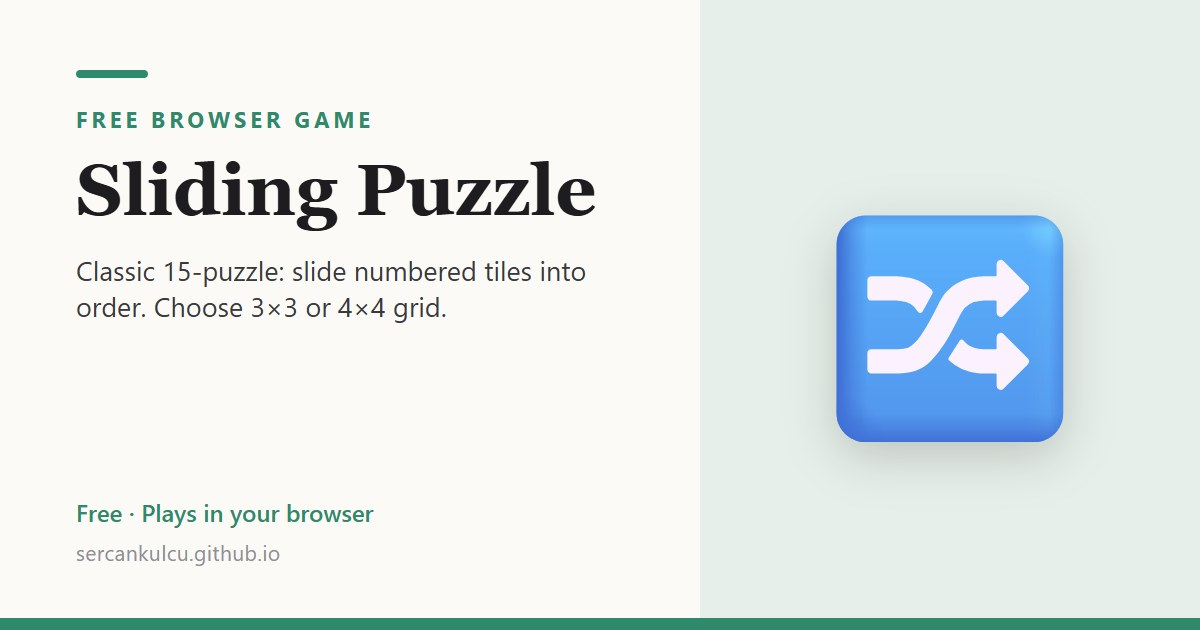
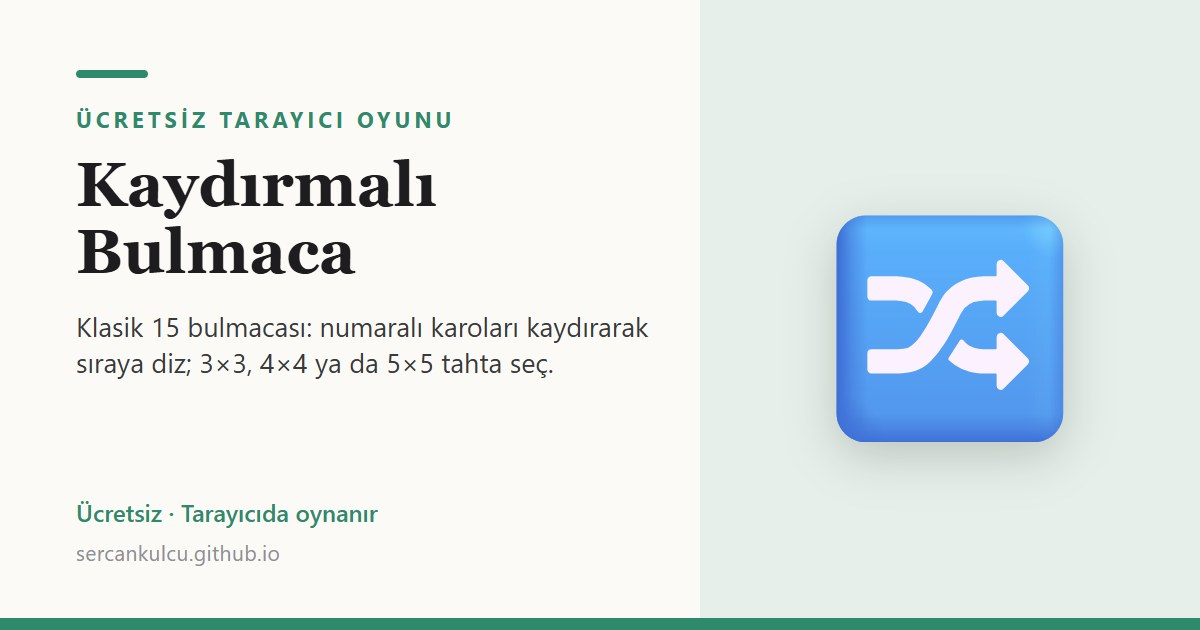
Sliding Puzzle becomes Kaydırmalı Bulmaca: Turkish interface, title and description

diff --git a/game/sliding-puzzle.html b/game/sliding-puzzle.html
@@ -1,10 +1,10 @@
 ---
 layout: without-sidebar
-title: "Sliding Puzzle"
+title: "Kaydırmalı Bulmaca"
 permalink: /game/sliding-puzzle/
-excerpt: "Classic 15-puzzle: slide numbered tiles into order. Choose 3×3 or 4×4 grid."
-lang: en
-seo_title: "Sliding Puzzle · Free Online Game"
+excerpt: "Klasik 15 bulmacası: numaralı karoları kaydırarak sıraya diz; 3×3, 4×4 ya da 5×5 tahta seç."
+lang: tr
+seo_title: "Kaydırmalı Bulmaca · 15 Bulmacası Oyna"
 og_image: https://sercankulcu.github.io/images/games/sliding-puzzle.jpg
 game_genre: "Puzzle"
 ---
@@ -89,16 +89,16 @@ game_genre: "Puzzle"
 
 <div class="sp-app">
   <div class="sp-header">
-    <h1 class="sp-title">Sliding Puzzle</h1>
+    <h1 class="sp-title">Kaydırmalı Bulmaca</h1>
   </div>
 
   <div class="sp-topbar">
-    <div class="sp-stat"><small>Moves</small><strong id="sp-moves">0</strong></div>
-    <div class="sp-stat"><small>Time</small><strong id="sp-time">0:00</strong></div>
-    <div class="sp-stat"><small>Best</small><strong id="sp-best">—</strong></div>
+    <div class="sp-stat"><small>Hamle</small><strong id="sp-moves">0</strong></div>
+    <div class="sp-stat"><small>Süre</small><strong id="sp-time">0:00</strong></div>
+    <div class="sp-stat"><small>Rekor</small><strong id="sp-best">—</strong></div>
   </div>
 
-  <div class="sp-size-tabs">
+  <div class="sp-size-tabs" role="group" aria-label="Tahta boyutu">
     <button class="sp-size-btn" type="button" data-n="3" aria-pressed="false">3 × 3</button>
     <button class="sp-size-btn active" type="button" data-n="4" aria-pressed="true">4 × 4</button>
     <button class="sp-size-btn" type="button" data-n="5" aria-pressed="false">5 × 5</button>
@@ -111,7 +111,7 @@ game_genre: "Puzzle"
   <div class="sp-controls">
     <button class="sp-btn primary" id="sp-new-btn" type="button">Yeni Oyun</button>
   </div>
-  <div class="sp-hint">Boş hücreye komşu karo'ya tıkla veya ok tuşlarını kullan</div>
+  <div class="sp-hint">Boş hücreye komşu bir karoya dokun ya da ok tuşlarını kullan</div>
 </div>
 
 <script>

diff --git a/tools/make_game_pages.py b/tools/make_game_pages.py
@@ -30,7 +30,7 @@ GROUPS = [
     ('🧠', 'Puzzle & logic', '#2f8a6b', 'Puzzle', [
         ('💣', 'minesweeper', 'en'), ('🔢', 'sudoku', 'en'), ('🧩', 'connections', 'en'),
         ('🧶', 'strands', 'tr'), ('🃏', 'memory', 'en'), ('🐂', 'bulls-and-cows', 'en'),
-        ('🔀', 'sliding-puzzle', 'en'), ('⚓', 'battleship', 'tr')]),
+        ('🔀', 'sliding-puzzle', 'tr'), ('⚓', 'battleship', 'tr')]),
     ('🔤', 'Word games', '#1f6fb2', 'Word game', [
         ('5⃣', 'fiveletters', 'tr'), ('6⃣', 'sixletters', 'tr'), ('🔤', 'oneword', 'tr'),
         ('🐝', 'spellbee', 'tr'), ('🎯', 'hangman', 'tr'), ('🔡', 'boggle', 'tr')]),
@@ -48,6 +48,7 @@ SEO = {
     'sixletters': 'Altı Harf · 6 Harfli Türkçe Wordle',
     'hangman': 'Adam Asmaca · Türkçe Kelime Tahmin Oyunu',
     'strands': 'Strands · Türkçe Temalı Kelime Avı',
+    'sliding-puzzle': 'Kaydırmalı Bulmaca · 15 Bulmacası Oyna',
     'oneword': 'Bir Kelime · Türkçe Kelime Türetme Oyunu',
     'spellbee': 'Spell Bee · Türkçe Kelime Oyunu',
     'boggle': 'Boggle · Türkçe Kelime Bulma Oyunu',

diff --git a/_pages/games.md b/_pages/games.md
@@ -5,7 +5,7 @@ title: "Games"
 seo_title: "Free Browser Games: Puzzles, Turkish Word Games and Quizzes"
 description: "31 free games that play right in your browser: arcade, puzzle and logic games, Turkish word games, quizzes and classics. No download, no sign-up."
 author_profile: true
-json_ld: "{\"@context\": \"https://schema.org\", \"@type\": \"ItemList\", \"name\": \"Free browser games\", \"numberOfItems\": 31, \"itemListElement\": [{\"@type\": \"ListItem\", \"position\": 1, \"url\": \"https://sercankulcu.github.io/game/car-race/\", \"name\": \"Retro Car Race\"}, {\"@type\": \"ListItem\", \"position\": 2, \"url\": \"https://sercankulcu.github.io/game/basketball/\", \"name\": \"Basketball\"}, {\"@type\": \"ListItem\", \"position\": 3, \"url\": \"https://sercankulcu.github.io/game/fastreflex/\", \"name\": \"Fast Reflex\"}, {\"@type\": \"ListItem\", \"position\": 4, \"url\": \"https://sercankulcu.github.io/game/squid/\", \"name\": \"Red Light, Green Light\"}, {\"@type\": \"ListItem\", \"position\": 5, \"url\": \"https://sercankulcu.github.io/game/pong/\", \"name\": \"Pong\"}, {\"@type\": \"ListItem\", \"position\": 6, \"url\": \"https://sercankulcu.github.io/game/flappy-bird/\", \"name\": \"Floppy Kuş\"}, {\"@type\": \"ListItem\", \"position\": 7, \"url\": \"https://sercankulcu.github.io/game/minesweeper/\", \"name\": \"Minesweeper\"}, {\"@type\": \"ListItem\", \"position\": 8, \"url\": \"https://sercankulcu.github.io/game/sudoku/\", \"name\": \"Sudoku\"}, {\"@type\": \"ListItem\", \"position\": 9, \"url\": \"https://sercankulcu.github.io/game/connections/\", \"name\": \"Connections\"}, {\"@type\": \"ListItem\", \"position\": 10, \"url\": \"https://sercankulcu.github.io/game/strands/\", \"name\": \"Strands\"}, {\"@type\": \"ListItem\", \"position\": 11, \"url\": \"https://sercankulcu.github.io/game/memory/\", \"name\": \"Memory Game\"}, {\"@type\": \"ListItem\", \"position\": 12, \"url\": \"https://sercankulcu.github.io/game/bulls-and-cows/\", \"name\": \"Bulls & Cows\"}, {\"@type\": \"ListItem\", \"position\": 13, \"url\": \"https://sercankulcu.github.io/game/sliding-puzzle/\", \"name\": \"Sliding Puzzle\"}, {\"@type\": \"ListItem\", \"position\": 14, \"url\": \"https://sercankulcu.github.io/game/battleship/\", \"name\": \"Amiral Battı\"}, {\"@type\": \"ListItem\", \"position\": 15, \"url\": \"https://sercankulcu.github.io/game/fiveletters/\", \"name\": \"Beş Harf\"}, {\"@type\": \"ListItem\", \"position\": 16, \"url\": \"https://sercankulcu.github.io/game/sixletters/\", \"name\": \"Altı Harf\"}, {\"@type\": \"ListItem\", \"position\": 17, \"url\": \"https://sercankulcu.github.io/game/oneword/\", \"name\": \"Bir Kelime\"}, {\"@type\": \"ListItem\", \"position\": 18, \"url\": \"https://sercankulcu.github.io/game/spellbee/\", \"name\": \"Spell Bee\"}, {\"@type\": \"ListItem\", \"position\": 19, \"url\": \"https://sercankulcu.github.io/game/hangman/\", \"name\": \"Adam Asmaca\"}, {\"@type\": \"ListItem\", \"position\": 20, \"url\": \"https://sercankulcu.github.io/game/boggle/\", \"name\": \"Boggle\"}, {\"@type\": \"ListItem\", \"position\": 21, \"url\": \"https://sercankulcu.github.io/game/flagquiz/\", \"name\": \"Flag Quiz\"}, {\"@type\": \"ListItem\", \"position\": 22, \"url\": \"https://sercankulcu.github.io/game/mathmaster/\", \"name\": \"Math Master\"}, {\"@type\": \"ListItem\", \"position\": 23, \"url\": \"https://sercankulcu.github.io/game/millionaire/\", \"name\": \"Milyoner\"}, {\"@type\": \"ListItem\", \"position\": 24, \"url\": \"https://sercankulcu.github.io/game/capital-city-quiz/\", \"name\": \"Capital City Quiz\"}, {\"@type\": \"ListItem\", \"position\": 25, \"url\": \"https://sercankulcu.github.io/game/movie-quiz/\", \"name\": \"Movie Quiz\"}, {\"@type\": \"ListItem\", \"position\": 26, \"url\": \"https://sercankulcu.github.io/game/pixar-color-millionaire/\", \"name\": \"Pixar Renk Milyoneri\"}, {\"@type\": \"ListItem\", \"position\": 27, \"url\": \"https://sercankulcu.github.io/game/emoji-quiz/\", \"name\": \"Emoji Quiz\"}, {\"@type\": \"ListItem\", \"position\": 28, \"url\": \"https://sercankulcu.github.io/game/turkiye-cografya-quiz/\", \"name\": \"Türkiye Coğrafya Quiz\"}, {\"@type\": \"ListItem\", \"position\": 29, \"url\": \"https://sercankulcu.github.io/game/yazitura/\", \"name\": \"Coin Flip\"}, {\"@type\": \"ListItem\", \"position\": 30, \"url\": \"https://sercankulcu.github.io/game/connectfour/\", \"name\": \"Connect Four\"}, {\"@type\": \"ListItem\", \"position\": 31, \"url\": \"https://sercankulcu.github.io/game/tictactoe/\", \"name\": \"Tic Tac Toe\"}]}"
+json_ld: "{\"@context\": \"https://schema.org\", \"@type\": \"ItemList\", \"name\": \"Free browser games\", \"numberOfItems\": 31, \"itemListElement\": [{\"@type\": \"ListItem\", \"position\": 1, \"url\": \"https://sercankulcu.github.io/game/car-race/\", \"name\": \"Retro Car Race\"}, {\"@type\": \"ListItem\", \"position\": 2, \"url\": \"https://sercankulcu.github.io/game/basketball/\", \"name\": \"Basketball\"}, {\"@type\": \"ListItem\", \"position\": 3, \"url\": \"https://sercankulcu.github.io/game/fastreflex/\", \"name\": \"Fast Reflex\"}, {\"@type\": \"ListItem\", \"position\": 4, \"url\": \"https://sercankulcu.github.io/game/squid/\", \"name\": \"Red Light, Green Light\"}, {\"@type\": \"ListItem\", \"position\": 5, \"url\": \"https://sercankulcu.github.io/game/pong/\", \"name\": \"Pong\"}, {\"@type\": \"ListItem\", \"position\": 6, \"url\": \"https://sercankulcu.github.io/game/flappy-bird/\", \"name\": \"Floppy Kuş\"}, {\"@type\": \"ListItem\", \"position\": 7, \"url\": \"https://sercankulcu.github.io/game/minesweeper/\", \"name\": \"Minesweeper\"}, {\"@type\": \"ListItem\", \"position\": 8, \"url\": \"https://sercankulcu.github.io/game/sudoku/\", \"name\": \"Sudoku\"}, {\"@type\": \"ListItem\", \"position\": 9, \"url\": \"https://sercankulcu.github.io/game/connections/\", \"name\": \"Connections\"}, {\"@type\": \"ListItem\", \"position\": 10, \"url\": \"https://sercankulcu.github.io/game/strands/\", \"name\": \"Strands\"}, {\"@type\": \"ListItem\", \"position\": 11, \"url\": \"https://sercankulcu.github.io/game/memory/\", \"name\": \"Memory Game\"}, {\"@type\": \"ListItem\", \"position\": 12, \"url\": \"https://sercankulcu.github.io/game/bulls-and-cows/\", \"name\": \"Bulls & Cows\"}, {\"@type\": \"ListItem\", \"position\": 13, \"url\": \"https://sercankulcu.github.io/game/sliding-puzzle/\", \"name\": \"Kaydırmalı Bulmaca\"}, {\"@type\": \"ListItem\", \"position\": 14, \"url\": \"https://sercankulcu.github.io/game/battleship/\", \"name\": \"Amiral Battı\"}, {\"@type\": \"ListItem\", \"position\": 15, \"url\": \"https://sercankulcu.github.io/game/fiveletters/\", \"name\": \"Beş Harf\"}, {\"@type\": \"ListItem\", \"position\": 16, \"url\": \"https://sercankulcu.github.io/game/sixletters/\", \"name\": \"Altı Harf\"}, {\"@type\": \"ListItem\", \"position\": 17, \"url\": \"https://sercankulcu.github.io/game/oneword/\", \"name\": \"Bir Kelime\"}, {\"@type\": \"ListItem\", \"position\": 18, \"url\": \"https://sercankulcu.github.io/game/spellbee/\", \"name\": \"Spell Bee\"}, {\"@type\": \"ListItem\", \"position\": 19, \"url\": \"https://sercankulcu.github.io/game/hangman/\", \"name\": \"Adam Asmaca\"}, {\"@type\": \"ListItem\", \"position\": 20, \"url\": \"https://sercankulcu.github.io/game/boggle/\", \"name\": \"Boggle\"}, {\"@type\": \"ListItem\", \"position\": 21, \"url\": \"https://sercankulcu.github.io/game/flagquiz/\", \"name\": \"Flag Quiz\"}, {\"@type\": \"ListItem\", \"position\": 22, \"url\": \"https://sercankulcu.github.io/game/mathmaster/\", \"name\": \"Math Master\"}, {\"@type\": \"ListItem\", \"position\": 23, \"url\": \"https://sercankulcu.github.io/game/millionaire/\", \"name\": \"Milyoner\"}, {\"@type\": \"ListItem\", \"position\": 24, \"url\": \"https://sercankulcu.github.io/game/capital-city-quiz/\", \"name\": \"Capital City Quiz\"}, {\"@type\": \"ListItem\", \"position\": 25, \"url\": \"https://sercankulcu.github.io/game/movie-quiz/\", \"name\": \"Movie Quiz\"}, {\"@type\": \"ListItem\", \"position\": 26, \"url\": \"https://sercankulcu.github.io/game/pixar-color-millionaire/\", \"name\": \"Pixar Renk Milyoneri\"}, {\"@type\": \"ListItem\", \"position\": 27, \"url\": \"https://sercankulcu.github.io/game/emoji-quiz/\", \"name\": \"Emoji Quiz\"}, {\"@type\": \"ListItem\", \"position\": 28, \"url\": \"https://sercankulcu.github.io/game/turkiye-cografya-quiz/\", \"name\": \"Türkiye Coğrafya Quiz\"}, {\"@type\": \"ListItem\", \"position\": 29, \"url\": \"https://sercankulcu.github.io/game/yazitura/\", \"name\": \"Coin Flip\"}, {\"@type\": \"ListItem\", \"position\": 30, \"url\": \"https://sercankulcu.github.io/game/connectfour/\", \"name\": \"Connect Four\"}, {\"@type\": \"ListItem\", \"position\": 31, \"url\": \"https://sercankulcu.github.io/game/tictactoe/\", \"name\": \"Tic Tac Toe\"}]}"
 ---
 
 <style>.games-intro { font-size: 1.05em; margin: 0 0 1.6em; }
@@ -40,7 +40,7 @@ No download, no sign-up. Some of the word games and quizzes are in Turkish.</p>
 <a class="app-card" href="/game/strands/" lang="tr"><span class="app-head"><span class="app-ico" aria-hidden="true">🧶</span>Strands</span><span class="app-desc">Harf tablosunda ortak bir temaya bağlı beş gizli Türkçe kelimeyi bul.</span></a>
 <a class="app-card" href="/game/memory/"><span class="app-head"><span class="app-ico" aria-hidden="true">🃏</span>Memory Game</span><span class="app-desc">Match pairs of cards while tracking moves and time.</span></a>
 <a class="app-card" href="/game/bulls-and-cows/"><span class="app-head"><span class="app-ico" aria-hidden="true">🐂</span>Bulls &amp; Cows</span><span class="app-desc">Crack the hidden four-digit code from the bulls and cows clues after each guess.</span></a>
-<a class="app-card" href="/game/sliding-puzzle/"><span class="app-head"><span class="app-ico" aria-hidden="true">🔀</span>Sliding Puzzle</span><span class="app-desc">Classic 15-puzzle: slide numbered tiles into order. Choose 3×3 or 4×4 grid.</span></a>
+<a class="app-card" href="/game/sliding-puzzle/" lang="tr"><span class="app-head"><span class="app-ico" aria-hidden="true">🔀</span>Kaydırmalı Bulmaca</span><span class="app-desc">Klasik 15 bulmacası: numaralı karoları kaydırarak sıraya diz; 3×3, 4×4 ya da 5×5 tahta seç.</span></a>
 <a class="app-card" href="/game/battleship/" lang="tr"><span class="app-head"><span class="app-ico" aria-hidden="true">⚓</span>Amiral Battı</span><span class="app-desc">Klasik Amiral Battı: filonu yerleştir, düşman gemilerini onlar seninkileri bulmadan batır.</span></a>
 </div>
 <h2 class="games-group">🔤 Word games</h2>
